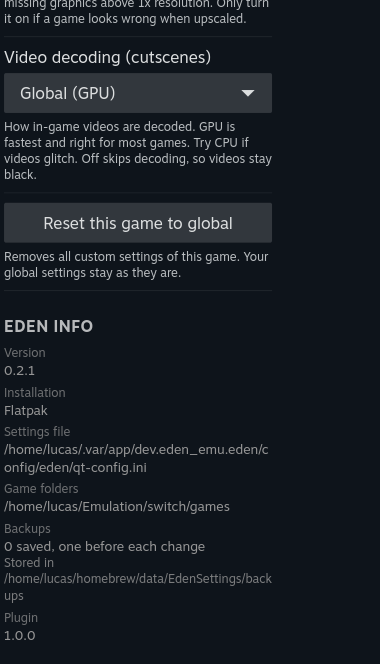
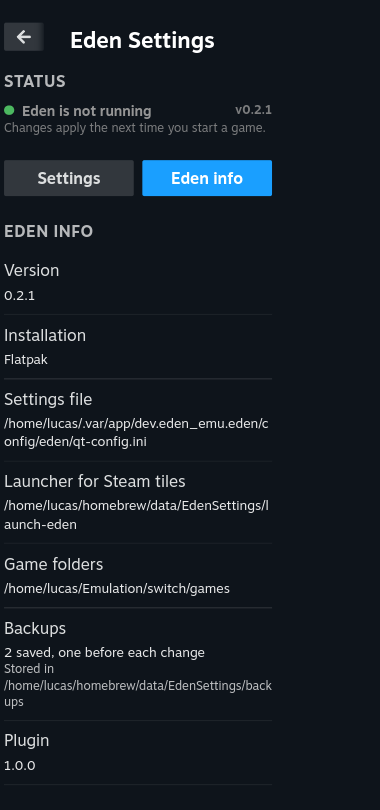
Eden info tab, keep gamepad focus, readable info block
- Eden info moves to its own tab next to Settings; info rows are focusable.
- Rows are no longer keyed on the game id and controls are not disabled while
  saving, so the gamepad focus no longer jumps to the top of the panel.

diff --git a/src/index.tsx b/src/index.tsx
@@ -1,12 +1,15 @@
 import {
   ButtonItem,
+  DialogButton,
   DropdownItem,
+  Field,
+  Focusable,
   PanelSection,
   PanelSectionRow,
   staticClasses,
 } from "@decky/ui";
 import { callable, definePlugin, toaster } from "@decky/api";
-import { CSSProperties, ReactNode, useCallback, useEffect, useMemo, useState } from "react";
+import { CSSProperties, ReactNode, useCallback, useEffect, useMemo, useRef, useState } from "react";
 import { FaGamepad } from "react-icons/fa";
 import { makeArtwork } from "./artwork";
 import { detectLanguage, hasKey, makeTranslator, Translate } from "./i18n";
@@ -90,13 +93,14 @@ function errorText(t: Translate, error?: string): string {
   return error ?? t("toast.unknown");
 }
 
+/** One line of the info block. `focusable` is essential: the gamepad only scrolls to things it can focus, so plain
+ *  text rows at the end of the panel would be unreachable. */
 function Row({ label, children }: { label: string; children: ReactNode }) {
   return (
     <PanelSectionRow>
-      <div style={{ width: "100%", paddingBottom: "6px" }}>
-        <div style={{ ...small, opacity: 0.7 }}>{label}</div>
-        <div style={{ fontSize: "13px", lineHeight: 1.35, overflowWrap: "anywhere" }}>{children}</div>
-      </div>
+      <Field label={label} childrenLayout="below" focusable highlightOnFocus>
+        <div style={{ fontSize: "13px", lineHeight: 1.4, overflowWrap: "anywhere", color: "rgba(255,255,255,0.9)" }}>{children}</div>
+      </Field>
     </PanelSectionRow>
   );
 }
@@ -136,6 +140,39 @@ function StatusBlock({ t, state }: { t: Translate; state: State }) {
   );
 }
 
+type TabId = "settings" | "info";
+
+/** Two-button tab bar. (Decky's own `Tabs` is made for full-screen pages and does not fit the narrow QAM.) */
+function TabBar({ t, active, onChange }: { t: Translate; active: TabId; onChange: (id: TabId) => void }) {
+  const tabs: { id: TabId; label: string }[] = [
+    { id: "settings", label: t("tab.settings") },
+    { id: "info", label: t("info.title") },
+  ];
+  return (
+    <PanelSection>
+      <PanelSectionRow>
+        <Focusable style={{ display: "flex", gap: "8px", width: "100%" }} flow-children="horizontal">
+          {tabs.map((tab) => (
+            <DialogButton
+              key={tab.id}
+              onClick={() => onChange(tab.id)}
+              style={{
+                flex: 1,
+                minWidth: 0,
+                padding: "8px 4px",
+                fontWeight: 600,
+                ...(tab.id === active ? { background: "#1a9fff", color: "#fff" } : {}),
+              }}
+            >
+              {tab.label}
+            </DialogButton>
+          ))}
+        </Focusable>
+      </PanelSectionRow>
+    </PanelSection>
+  );
+}
+
 function InfoBlock({ t, info }: { t: Translate; info: Info }) {
   return (
     <PanelSection title={t("info.title")}>
@@ -160,8 +197,11 @@ function InfoBlock({ t, info }: { t: Translate; info: Info }) {
 function Content({ t }: { t: Translate }) {
   const [state, setState] = useState<State | null>(null);
   const [gameId, setGameId] = useState<string>("");
-  const [busy, setBusy] = useState(false);
-  const [shortcutTick, setShortcutTick] = useState(0); // bumped after a Steam shortcut changes, to re-read Steam's list
+  const [tab, setTab] = useState<TabId>("settings");
+  // Guards against overlapping saves. Deliberately NOT state/`disabled`: disabling a control that has focus makes the
+  // gamepad focus jump back to the top of the panel.
+  const busy = useRef(false);
+  const [, setShortcutTick] = useState(0); // bumped after a Steam shortcut changes, to re-read Steam's list
 
   const refresh = useCallback(async () => {
     try {
@@ -179,7 +219,8 @@ function Content({ t }: { t: Translate }) {
   }, [refresh]);
 
   const act = async (fn: () => Promise<Result>) => {
-    setBusy(true);
+    if (busy.current) return;
+    busy.current = true;
     try {
       const r = await fn();
       if (!r.ok) toaster.toast({ title: t("toast.title"), body: errorText(t, r.error) });
@@ -188,12 +229,13 @@ function Content({ t }: { t: Translate }) {
       toaster.toast({ title: t("toast.title"), body: t("toast.actionFailed") });
     } finally {
       await refresh();
-      setBusy(false);
+      busy.current = false;
     }
   };
 
   const shortcutAction = async (game: Game, info: Info, existing: ReturnType<typeof findShortcut>) => {
-    setBusy(true);
+    if (busy.current) return;
+    busy.current = true;
     const name = `${game.name} (Eden)`;
     try {
       if (existing) {
@@ -210,7 +252,7 @@ function Content({ t }: { t: Translate }) {
     } finally {
       // Steam updates its app list asynchronously; give it a moment before re-reading.
       setTimeout(() => setShortcutTick((n) => n + 1), 800);
-      setBusy(false);
+      busy.current = false;
     }
   };
 
@@ -222,7 +264,7 @@ function Content({ t }: { t: Translate }) {
     );
   }
 
-  const locked = busy || state.eden_running || !state.info.installed;
+  const locked = state.eden_running || !state.info.installed;
   const game = state.games.find((g) => g.id === gameId);
   const customCount = game ? state.schema.filter((s) => game.overrides[s.key] != null).length : 0;
 
@@ -233,7 +275,11 @@ function Content({ t }: { t: Translate }) {
   return (
     <>
       <StatusBlock t={t} state={state} />
+      {state.info.installed && <TabBar t={t} active={tab} onChange={setTab} />}
+      {(!state.info.installed || tab === "info") && <InfoBlock t={t} info={state.info} />}
 
+      {state.info.installed && tab === "settings" && (
+      <>
       <PanelSection title={t("section.global")}>
         <PanelSectionRow>
           <div style={small}>{t("section.global.hint")}</div>
@@ -287,21 +333,19 @@ function Content({ t }: { t: Translate }) {
                     )}
                   </>
                 }
-                disabled={busy}
                 rgOptions={state.games.map((g) => ({ data: g.id, label: g.name }))}
                 selectedOption={gameId}
                 onChange={(o) => setGameId(o.data as string)}
               />
             </PanelSectionRow>
             {game && (
-              <PanelSectionRow key={`shortcut-${game.id}-${shortcutTick}`}>
+              <PanelSectionRow key="shortcut">
                 {(() => {
                   const existing = findShortcut(game);
                   if (!game.path && !existing) return <div style={small}>{t("shortcut.noPath")}</div>;
                   return (
                     <ButtonItem
                       layout="below"
-                      disabled={busy}
                       description={
                         existing
                           ? t("shortcut.remove.desc", { name: existing.name })
@@ -317,7 +361,7 @@ function Content({ t }: { t: Translate }) {
             )}
             {game &&
               groups.map((g) => (
-                <div key={game.id + g.id}>
+                <div key={g.id}>
                   <PanelSectionRow>
                     <div style={heading}>{t(`group.${g.id}`)}</div>
                   </PanelSectionRow>
@@ -332,7 +376,7 @@ function Content({ t }: { t: Translate }) {
                       ...optionValues(s, override).map((v) => ({ data: v, label: optionLabel(t, s, v) })),
                     ];
                     return (
-                      <PanelSectionRow key={game.id + s.key}>
+                      <PanelSectionRow key={s.key}>
                         <DropdownItem
                     layout="below"
                           label={t(`setting.${s.key}.label`)}
@@ -364,8 +408,8 @@ function Content({ t }: { t: Translate }) {
           </>
         )}
       </PanelSection>
-
-      <InfoBlock t={t} info={state.info} />
+      </>
+      )}
     </>
   );
 }

diff --git a/README.md b/README.md
@@ -18,7 +18,7 @@ Mode to change a resolution.
 - **Steam shortcuts.** One button per game adds a Game Mode tile (name, launch options, generated artwork and icon)
   that starts Eden fullscreen with that game, and removes it again. Tiles you already made by hand are recognised.
 - **Every option explained**, in your language: what it does, what it costs and when to use it.
-- **Eden info** at the top and bottom of the panel: running or not, version, installation type, settings file, game
+- **Eden info:** status and version on top of the panel, and a separate *Eden info* tab next to *Settings* with the installation type, settings file, launcher, game
   folders and backups.
 - **Safe.** Nothing is written while Eden runs (Eden rewrites its own files when it closes, which would undo your
   change). Before every write the file is backed up (the last 20 are kept), the write is atomic, and only the lines of

diff --git a/CHANGELOG.md b/CHANGELOG.md
@@ -1,5 +1,12 @@
 # Changelog
 
+## 1.0.1
+
+- New: *Eden info* has its own tab next to *Settings*; status and version stay visible on top. Every info line is
+  focusable, so the gamepad can reach it, and the text is larger and easier to read.
+- Fixed: choosing another game (or changing a setting) made the gamepad focus jump to the top of the panel. Rows
+  are no longer rebuilt when the game changes, and controls are no longer disabled while a change is being saved.
+
 ## 1.0.0
 
 First public release.
